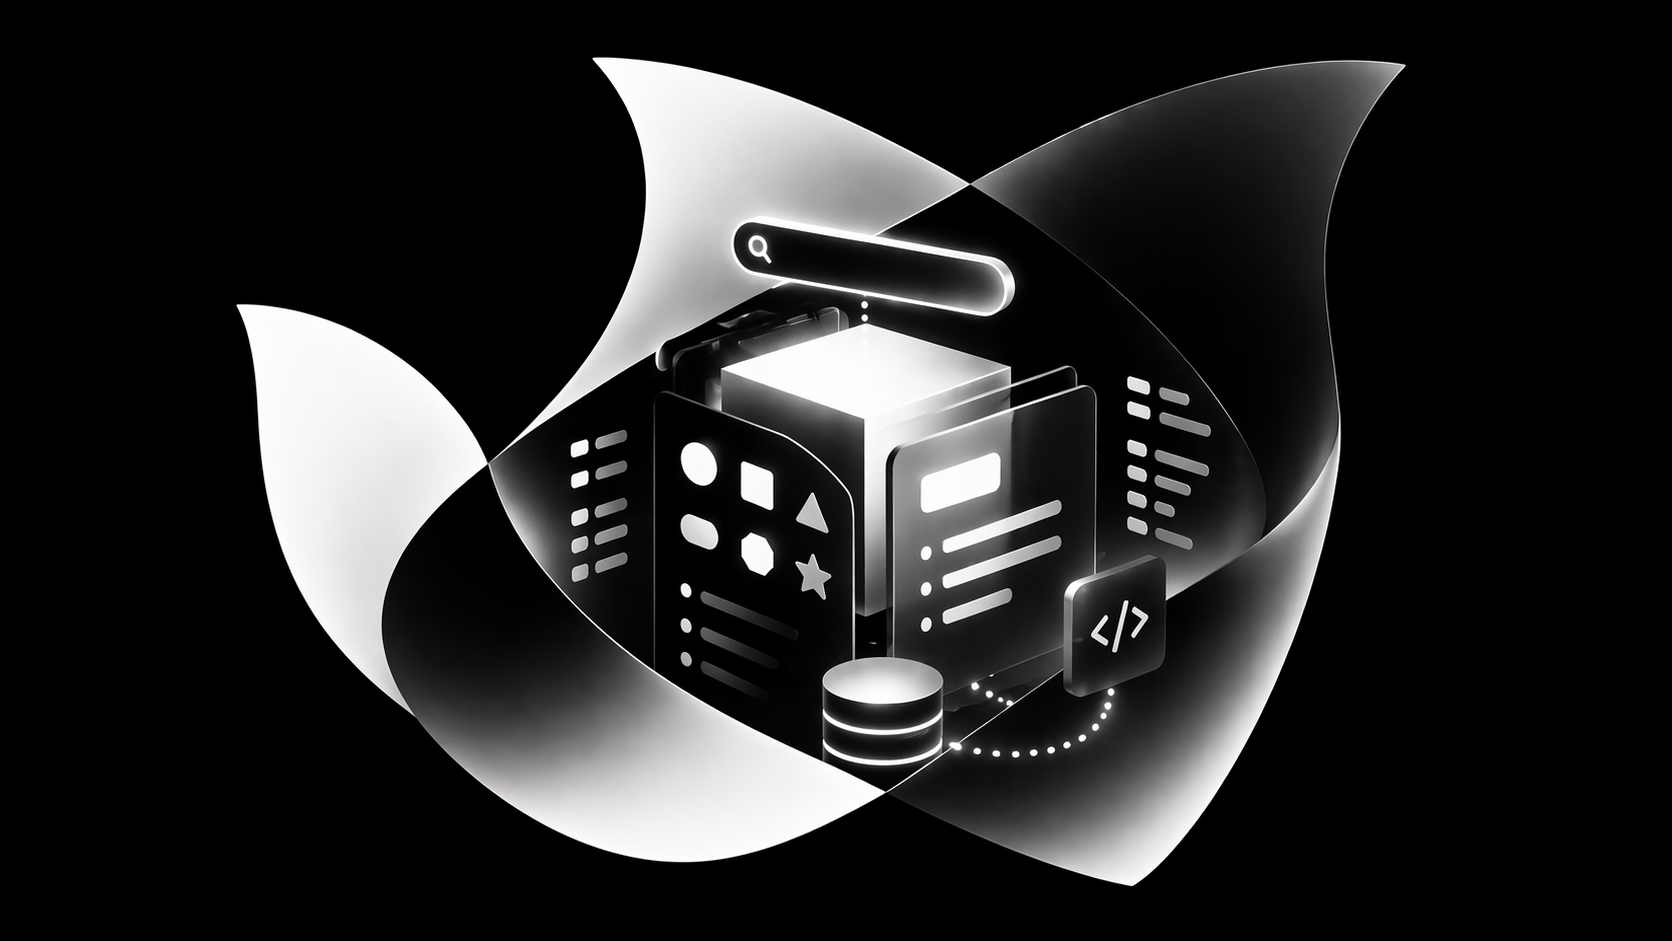
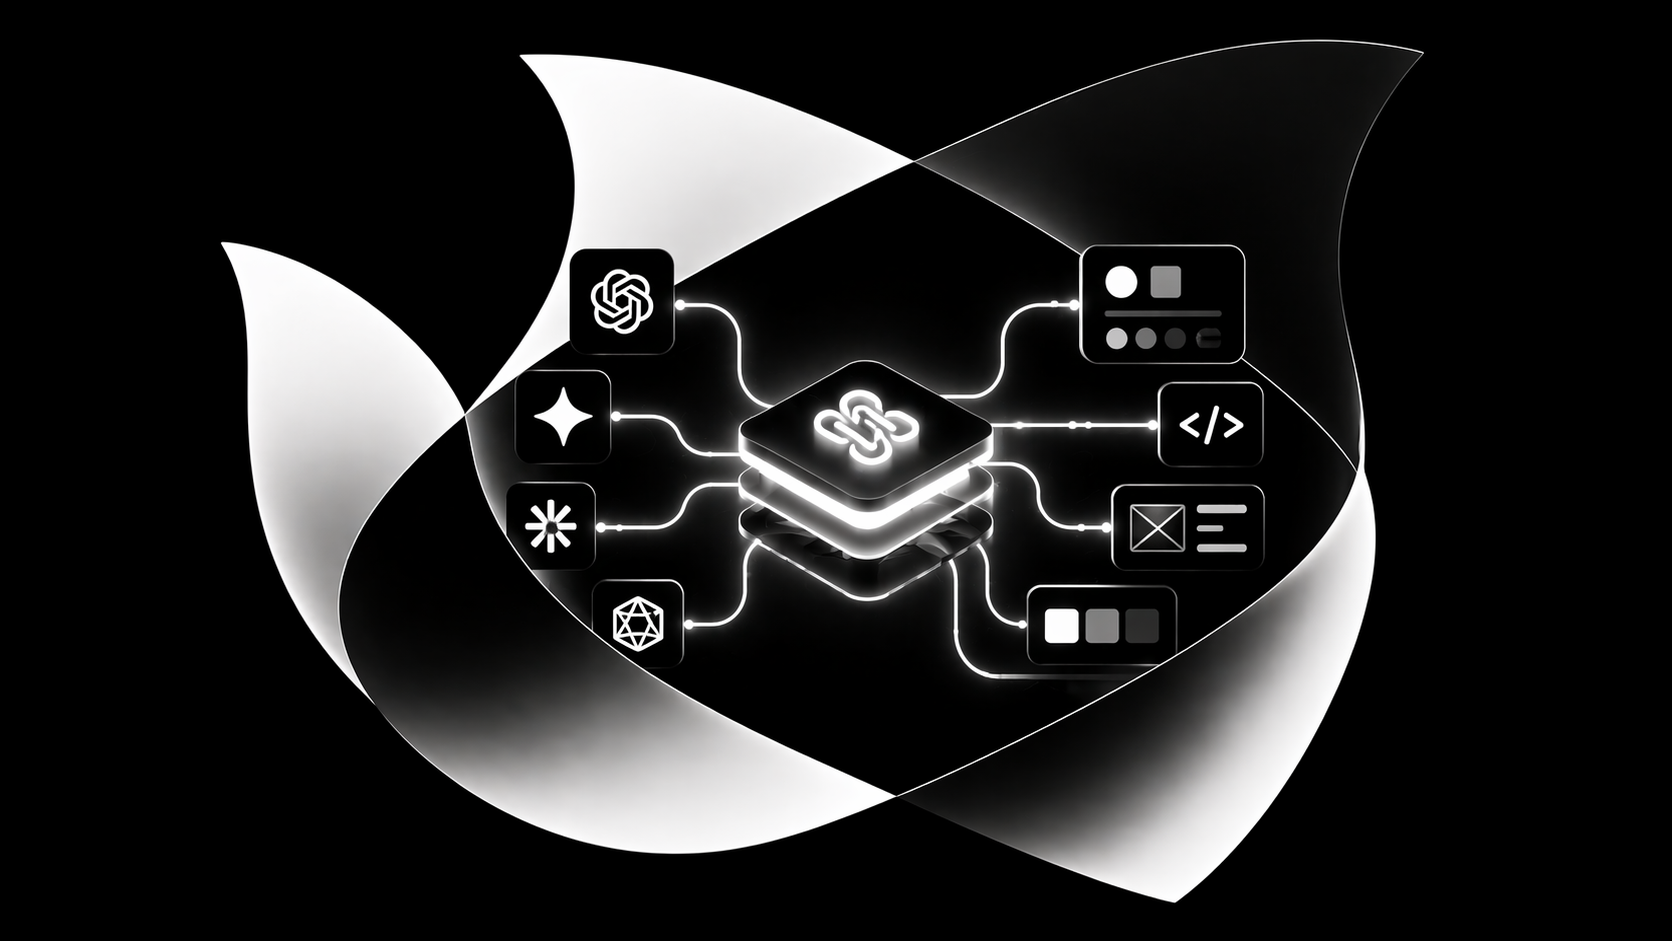
Replace hero images for all four Ticketmaster case studies
Updated hero artwork for GDS, MCP, token migration, and AI workflows
case studies with new detailed illustrations.

diff --git a/src/lib/data.ts b/src/lib/data.ts
@@ -195,7 +195,7 @@ export const caseStudies: CaseStudy[] = [
     year: "",
     color: "red",
     thumbnail: "/images/ai-design-workflows/thumb.svg",
-    hero: "/images/ai-design-workflows/hero.svg",
+    hero: "/images/ai-design-workflows/hero.png",
     overview: {
       role: "Associate Director, Product Design",
       timeline: "12-month roadmap",